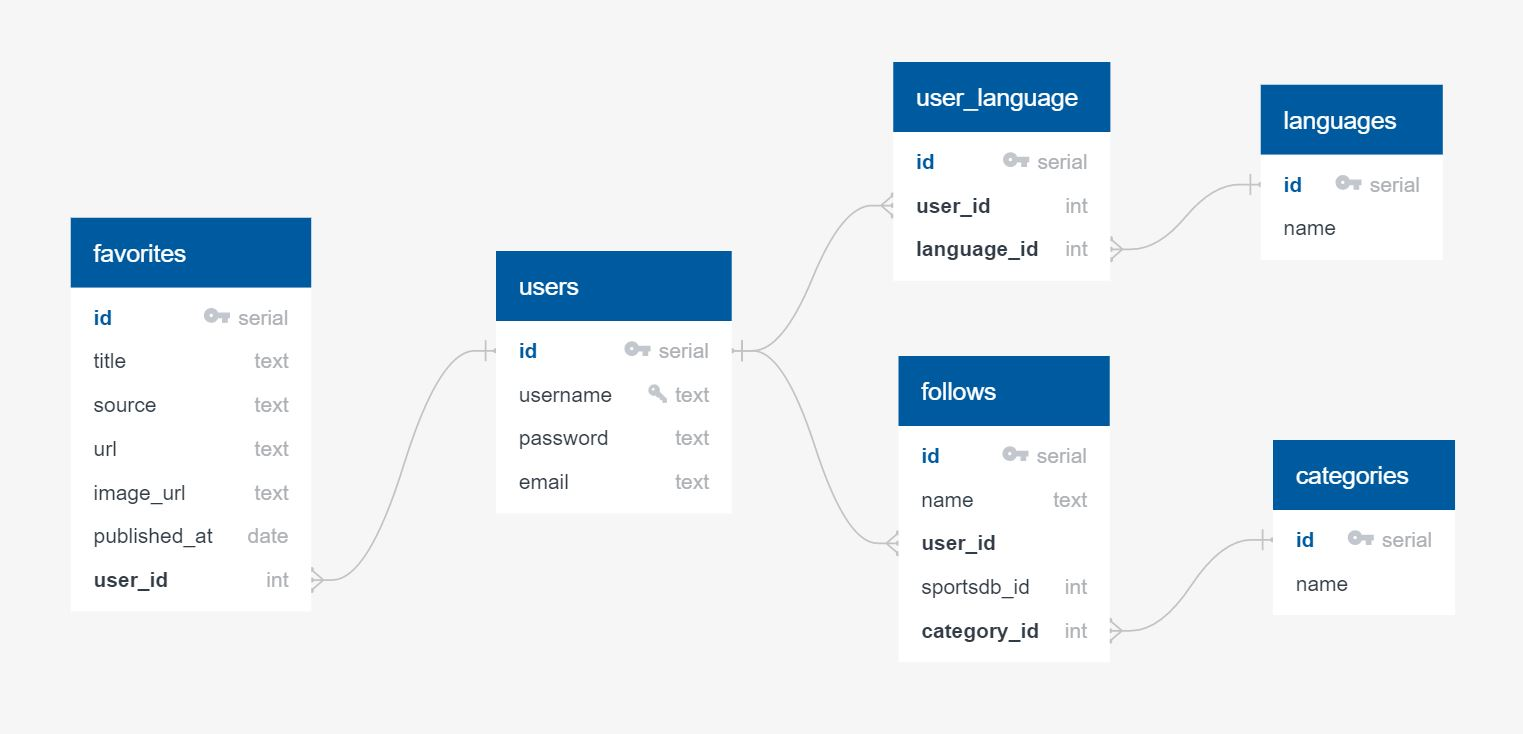
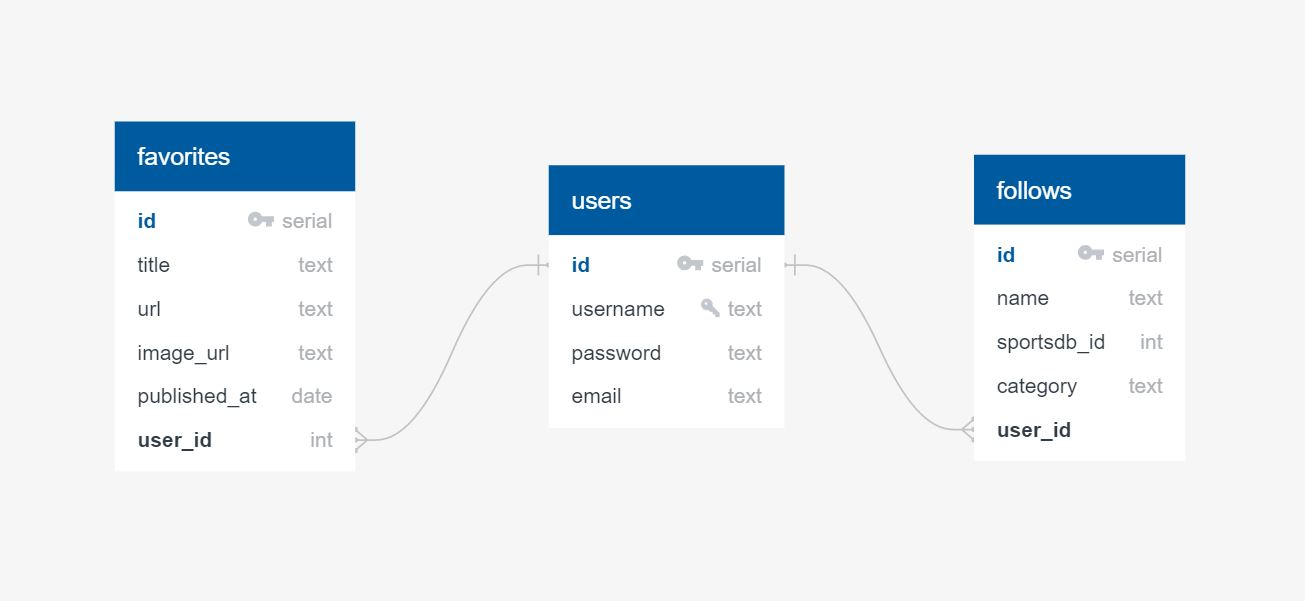
Revert email change, update table diagram

diff --git a/models.py b/models.py
@@ -20,6 +20,8 @@ class User(db.Model):
 
     password = db.Column(db.Text, nullable=False)
 
+    email = db.Column(db.String(50), nullable=True)
+
     favorites = db.relationship( 'Favorite', backref="user", cascade="all, delete")
 
     follows = db.relationship( 'Follow', backref="users")
